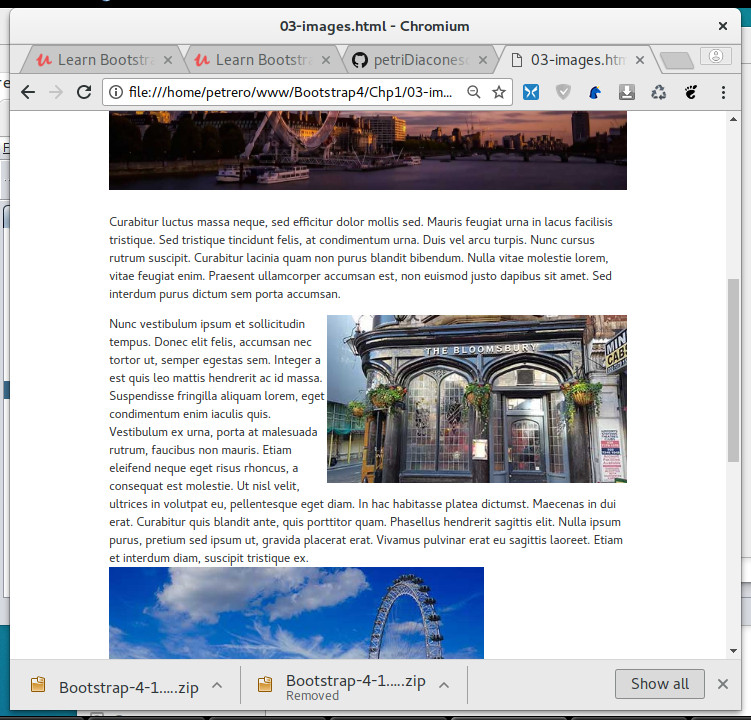
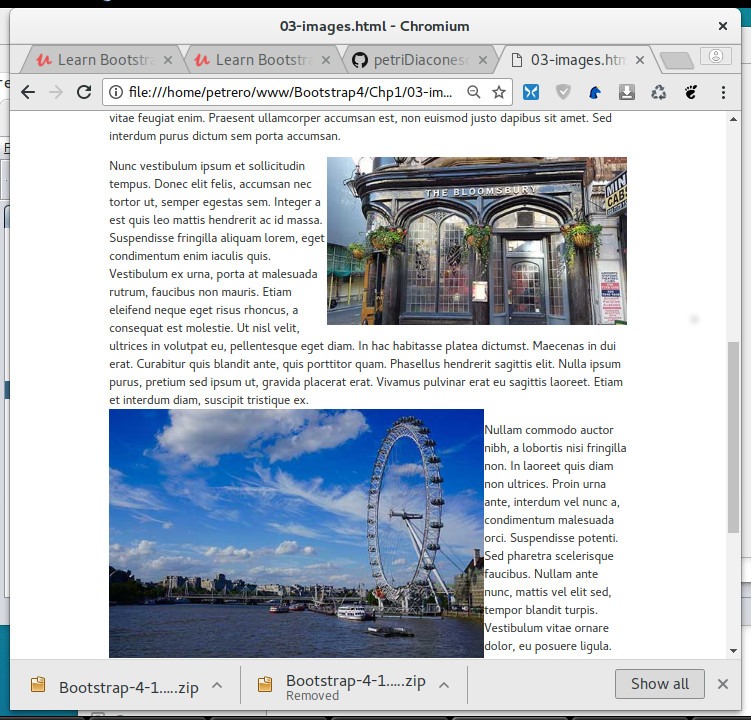
Make the second image to float to the left.

diff --git a/Chp1/03-images.html b/Chp1/03-images.html
@@ -36,7 +36,7 @@
                 <img src="img/image_02.jpg" class="img-fluid float-right">
                 <p>Nunc vestibulum ipsum et sollicitudin tempus. Donec elit felis, accumsan nec tortor ut, semper egestas sem. Integer a est quis leo mattis hendrerit ac id massa. Suspendisse fringilla aliquam lorem, eget condimentum enim iaculis quis. Vestibulum ex urna, porta at malesuada rutrum, faucibus non mauris. Etiam eleifend neque eget risus rhoncus, a consequat est molestie. Ut nisl velit, ultrices in volutpat eu, pellentesque eget diam. In hac habitasse platea dictumst. Maecenas in dui erat. Curabitur quis blandit ante, quis porttitor quam. Phasellus hendrerit sagittis elit. Nulla ipsum purus, pretium sed ipsum ut, gravida placerat erat. Vivamus pulvinar erat eu sagittis laoreet. Etiam et interdum diam, suscipit tristique ex.
 
-                <img src="img/image_03.jpg" class="img-fluid">
+                <img src="img/image_03.jpg" class="img-fluid float-left">
                 <p>Nullam commodo auctor nibh, a lobortis nisi fringilla non. In laoreet quis diam non ultrices. Proin urna ante, interdum vel nunc a, condimentum malesuada orci. Suspendisse potenti. Sed pharetra scelerisque faucibus. Nullam ante nunc, mattis vel elit sed, tempor blandit turpis. Vestibulum vitae ornare dolor, eu posuere ligula. Integer non tellus sit amet odio feugiat posuere. Praesent vel ante ac ipsum dapibus fermentum. Mauris tristique lobortis pellentesque. Nullam luctus lectus sed ante semper hendrerit. Curabitur ut est vitae mauris porttitor rhoncus vitae in turpis. Etiam malesuada metus a nunc egestas, a efficitur ligula cursus. Morbi diam nisi, pretium quis odio at, tristique venenatis nisi. Mauris quam mi, cursus non lectus eget, auctor hendrerit odio. Cras ligula eros, bibendum porttitor hendrerit at, tristique non felis.</p>
                 
                 <div class="text-center">
